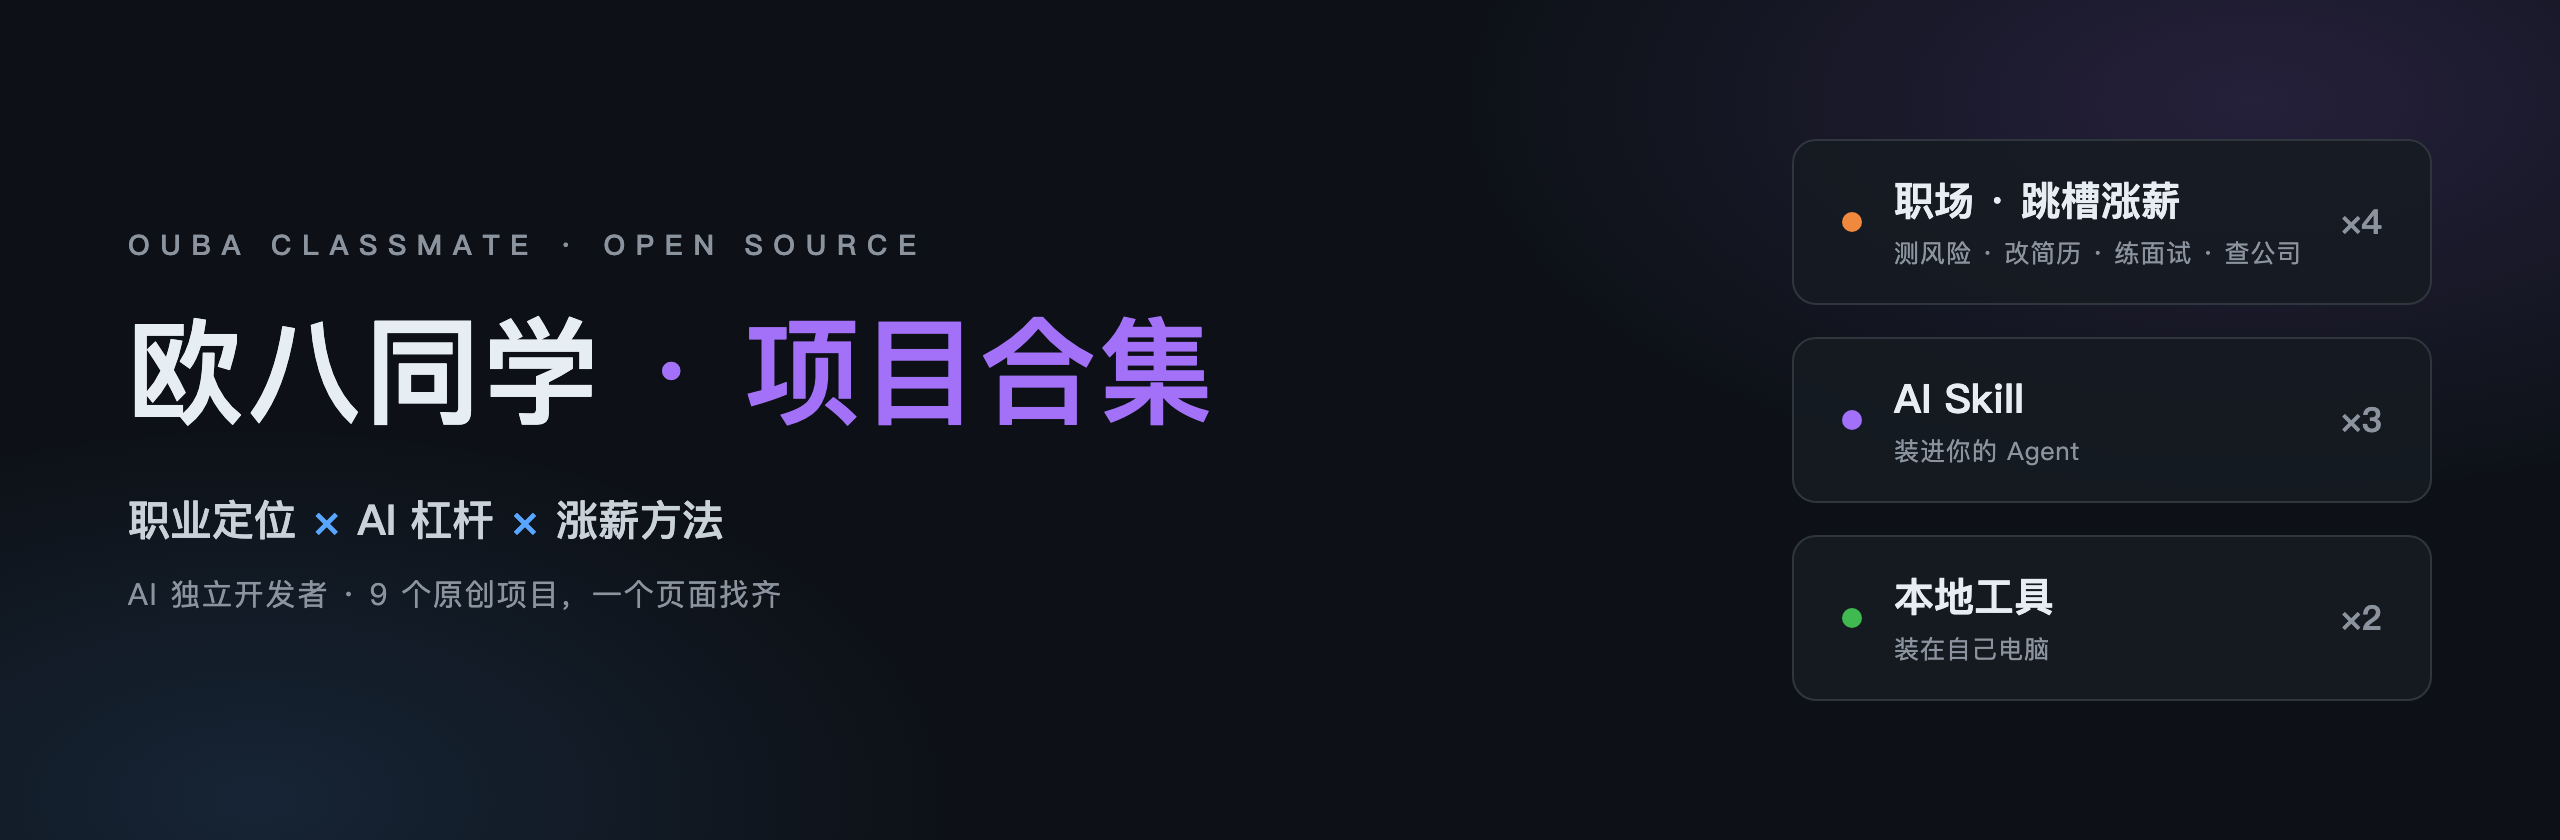
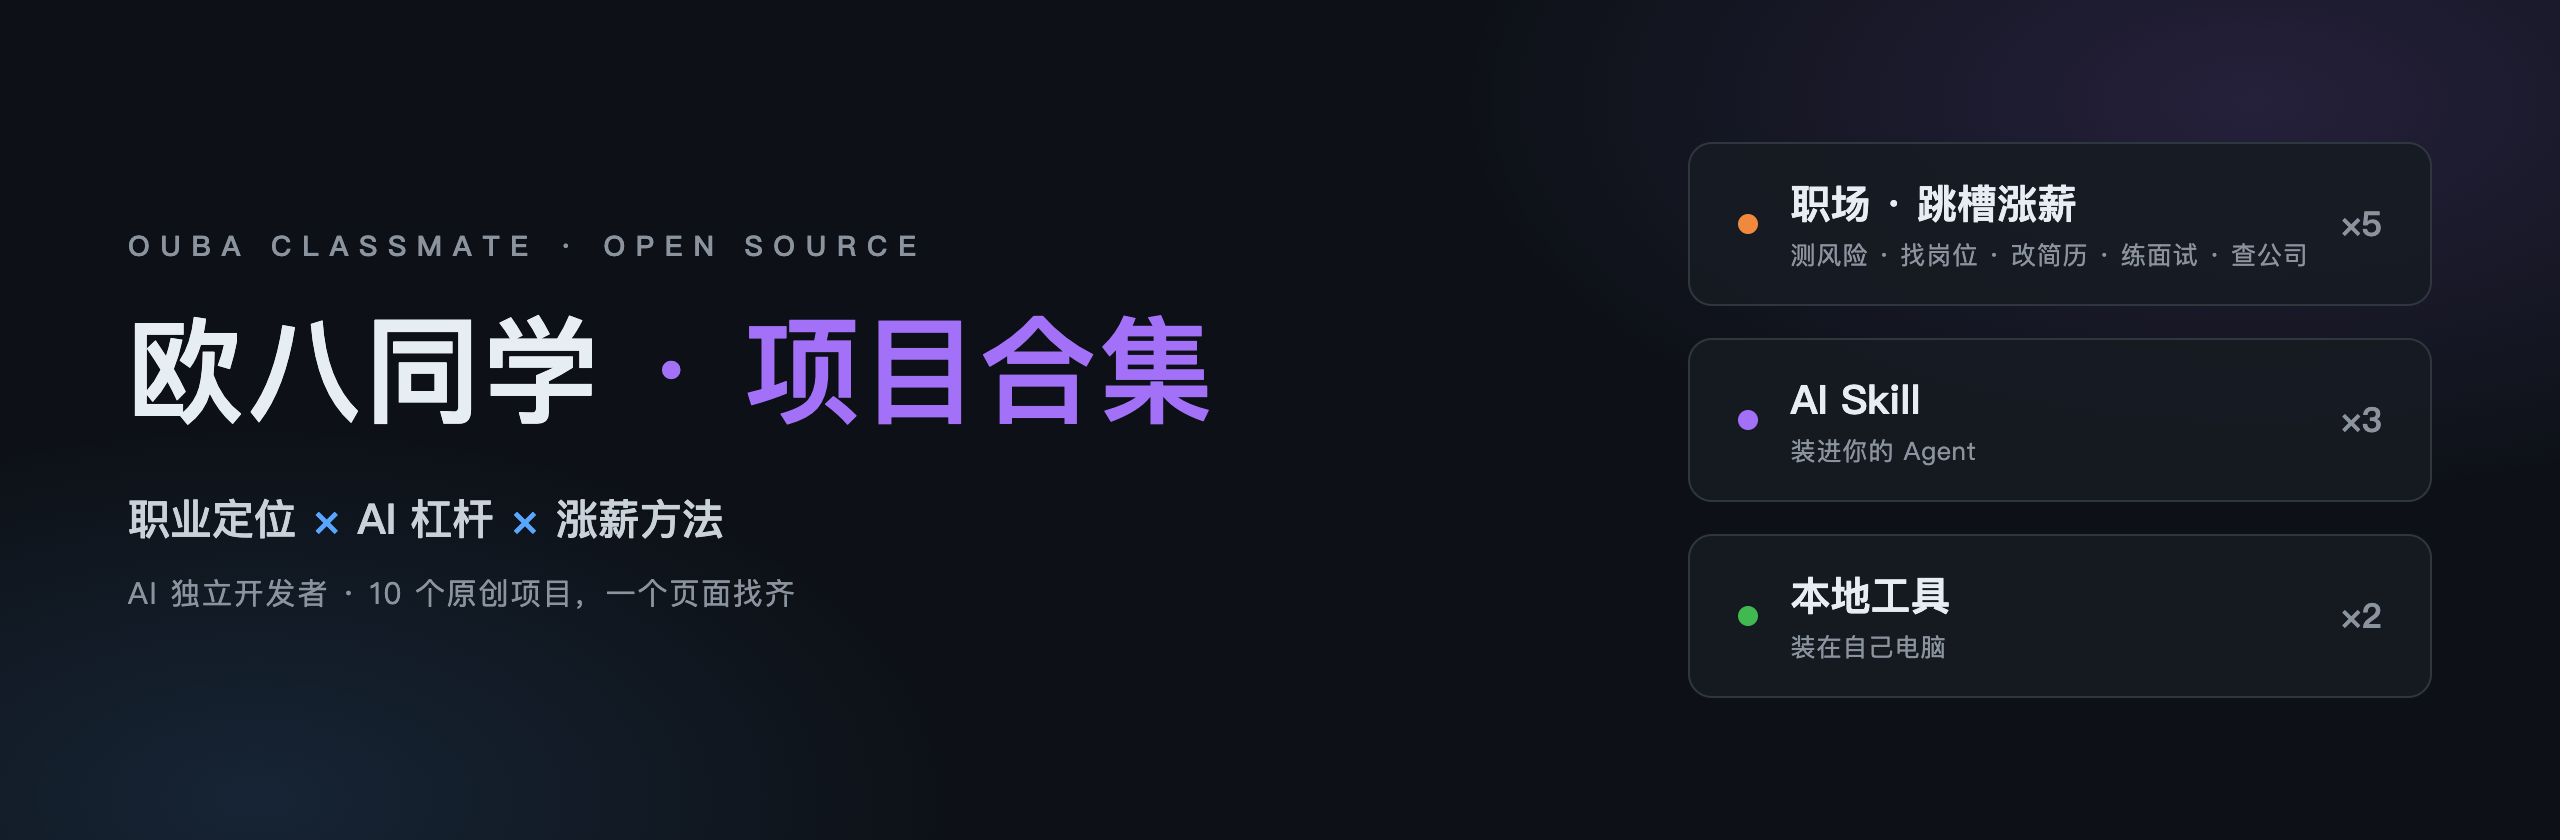
feat: add Job Scout to career project collection

diff --git a/scripts/banner.html b/scripts/banner.html
@@ -39,13 +39,13 @@
       <div class="kicker">OUBA CLASSMATE &middot; OPEN SOURCE</div>
       <h1>欧八同学<span class="accent"> · 项目合集</span></h1>
       <div class="formula">职业定位 <b>&times;</b> AI 杠杆 <b>&times;</b> 涨薪方法</div>
-      <div class="tagline">AI 独立开发者 &middot; 9 个原创项目，一个页面找齐</div>
+      <div class="tagline">AI 独立开发者 &middot; 10 个原创项目，一个页面找齐</div>
     </div>
     <div class="right">
       <div class="card">
         <span class="dot" style="background:#f0883e"></span>
-        <span><div class="name">职场 · 跳槽涨薪</div><div class="sub">测风险 · 改简历 · 练面试 · 查公司</div></span>
-        <span class="count">&times;4</span>
+        <span><div class="name">职场 · 跳槽涨薪</div><div class="sub">测风险 · 找岗位 · 改简历 · 练面试 · 查公司</div></span>
+        <span class="count">&times;5</span>
       </div>
       <div class="card">
         <span class="dot" style="background:#a371f7"></span>

diff --git a/scripts/update_projects.py b/scripts/update_projects.py
@@ -45,6 +45,10 @@ CATEGORY_ORDER = ["career", "skill", "app", "local", "more"]
 
 # 描述为各仓库 README/描述的中文摘编；stars 与更新时间每次从 API 实时刷新
 REPO_META = {
+    "job-scout": {
+        "category": "career",
+        "desc": "输入求职条件，筛选招聘信息并生成带来源证据的 HTML/Excel 岗位清单",
+    },
     "storyboard-scavenger": {
         "category": "skill",
         "desc": "把混乱的创意清理成可拍摄的 AI 视频分镜：输入一堆想法，输出有序的分镜表",

diff --git a/README.md b/README.md
@@ -1,7 +1,7 @@
 # 欧八同学 · 项目合集
 
 <p align="center">
-  <img src="assets/banner.png" alt="欧八同学项目合集总览：职业定位 × AI 杠杆 × 涨薪方法，9 个原创项目分三类">
+  <img src="assets/banner.png" alt="欧八同学项目合集总览：职业定位 × AI 杠杆 × 涨薪方法，10 个原创项目分三类">
 </p>
 
 我是欧八同学，一个人在做 AI 产品。这个页面收集了我全部公开的原创项目和 Skill，想找什么，从这里出发。
@@ -11,6 +11,7 @@
 | 你想做什么 | 去这里 |
 | --- | --- |
 | 判断手头工作会不会被 AI 替代 | [mbai](https://github.com/ouxxyy/mbai) |
+| 按条件找岗位、整理投递短名单 | [job-scout](https://github.com/ouxxyy/job-scout) |
 | 改简历、对着 JD 打分 | [jd-resume-match](https://github.com/ouxxyy/jd-resume-match) |
 | 练面试 | [ai-interviewer](https://github.com/ouxxyy/ai-interviewer) |
 | 查一家公司的底 | [sherlock-company](https://github.com/ouxxyy/sherlock-company) |
@@ -27,6 +28,7 @@
 
 | 项目 | 它做什么 | 最近更新 |
 | --- | --- | --- |
+| [job-scout](https://github.com/ouxxyy/job-scout) | 输入求职条件，筛选招聘信息并生成带来源证据的 HTML/Excel 岗位清单 | 2026-10-22 |
 | [ai-interviewer](https://github.com/ouxxyy/ai-interviewer) ★3 | 基于 JD 与经历的中文语音 AI 面试陪练：逐题五维点评、原话引用、初答重答对比 | 2026-10-14 |
 | [jd-resume-match](https://github.com/ouxxyy/jd-resume-match) | 简历 vs JD 匹配度打分器：可复算评分、原文证据引用、HTML 体检单与脱敏分享卡 | 2026-10-02 |
 | [mbai](https://github.com/ouxxyy/mbai) | 工作任务 AI 不可替代指数：复制 PROMPT.md 到任意 AI 对话即用，也能装成 Agent Skill | 2026-09-30 |
